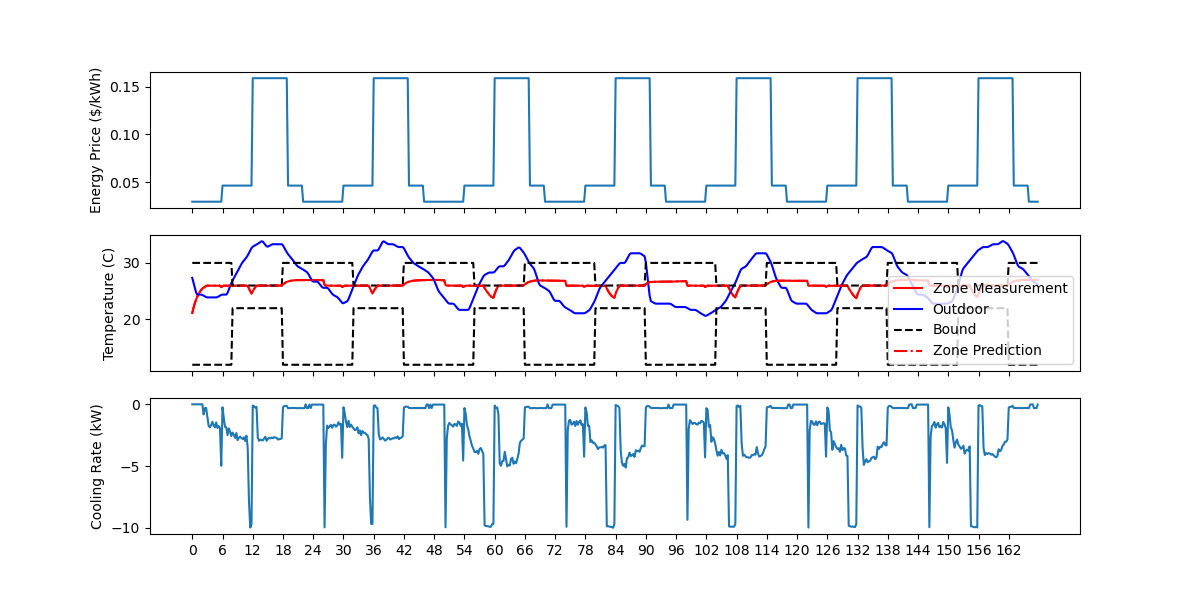
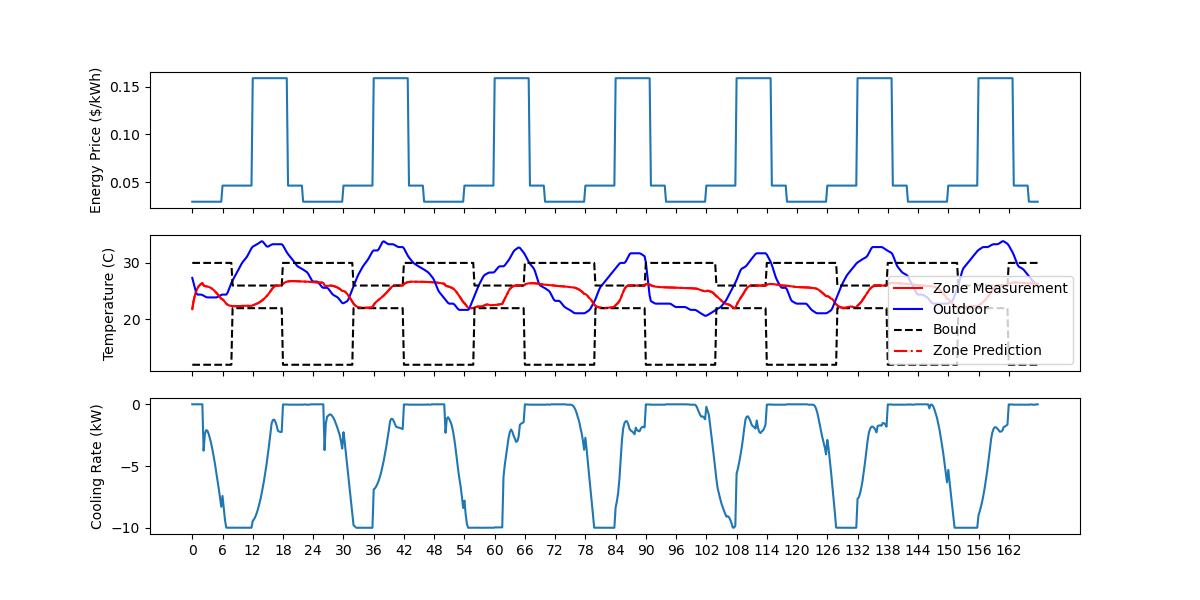
update perfect mpc

diff --git a/resources/tutorials/jax/optimal_control_mpc_jit_kmf.py b/resources/tutorials/jax/optimal_control_mpc_jit_kmf.py
@@ -393,9 +393,8 @@ if __name__ == '__main__':
     # get predictor
     predictor = {}
     # [Cai, Cwe, Cwi, Re, Ri, Rw, Rg]
-    predictor['zone_model'] = jnp.array([10838.6513671875, 1000000.0, 10000000.0,
-                                        8.894198417663574, 0.5456274747848511, 
-                                        1.047658085823059, 9.346653938293457])
+    predictor['zone_model'] = jnp.array([6.9789902e+03, 2.1591113e+04, 1.8807944e+05, 3.4490612e+00,
+                                         4.9556872e-01, 9.8289281e-02, 4.6257420e+00])
     # get zone model
     Cai, Cwe, Cwi, Re, Ri, Rw, Rg = predictor['zone_model']
     A, B, C, D = get_ABCD(Cai, Cwe, Cwi, Re, Ri, Rw, Rg)

diff --git a/resources/tutorials/jax/optimal_control_mpc_jit.py b/resources/tutorials/jax/optimal_control_mpc_jit.py
@@ -295,7 +295,7 @@ if __name__ == '__main__':
     key = random.PRNGKey(44)
 
     # MPC setting
-    PH = 48
+    PH = 96
     CH = 1
     dt = 900
     nsteps_per_hour = int(3600 / dt)
@@ -315,7 +315,7 @@ if __name__ == '__main__':
 
     # Experiment settings
     ts = 195*24*3600
-    ndays = 1
+    ndays = 7
     te = ndays*24*3600 + ts
 
     # get predictor
@@ -347,7 +347,7 @@ if __name__ == '__main__':
     state = jnp.array([20, 35.8, 26.])    
     # initialize random seeds for noises in measurements
     keys = random.split(key, int((te-ts)/dt))
-    mu_noise = 0.
+    mu_noise = 0.5
 
     # initialize output 
     u_opt  = []
